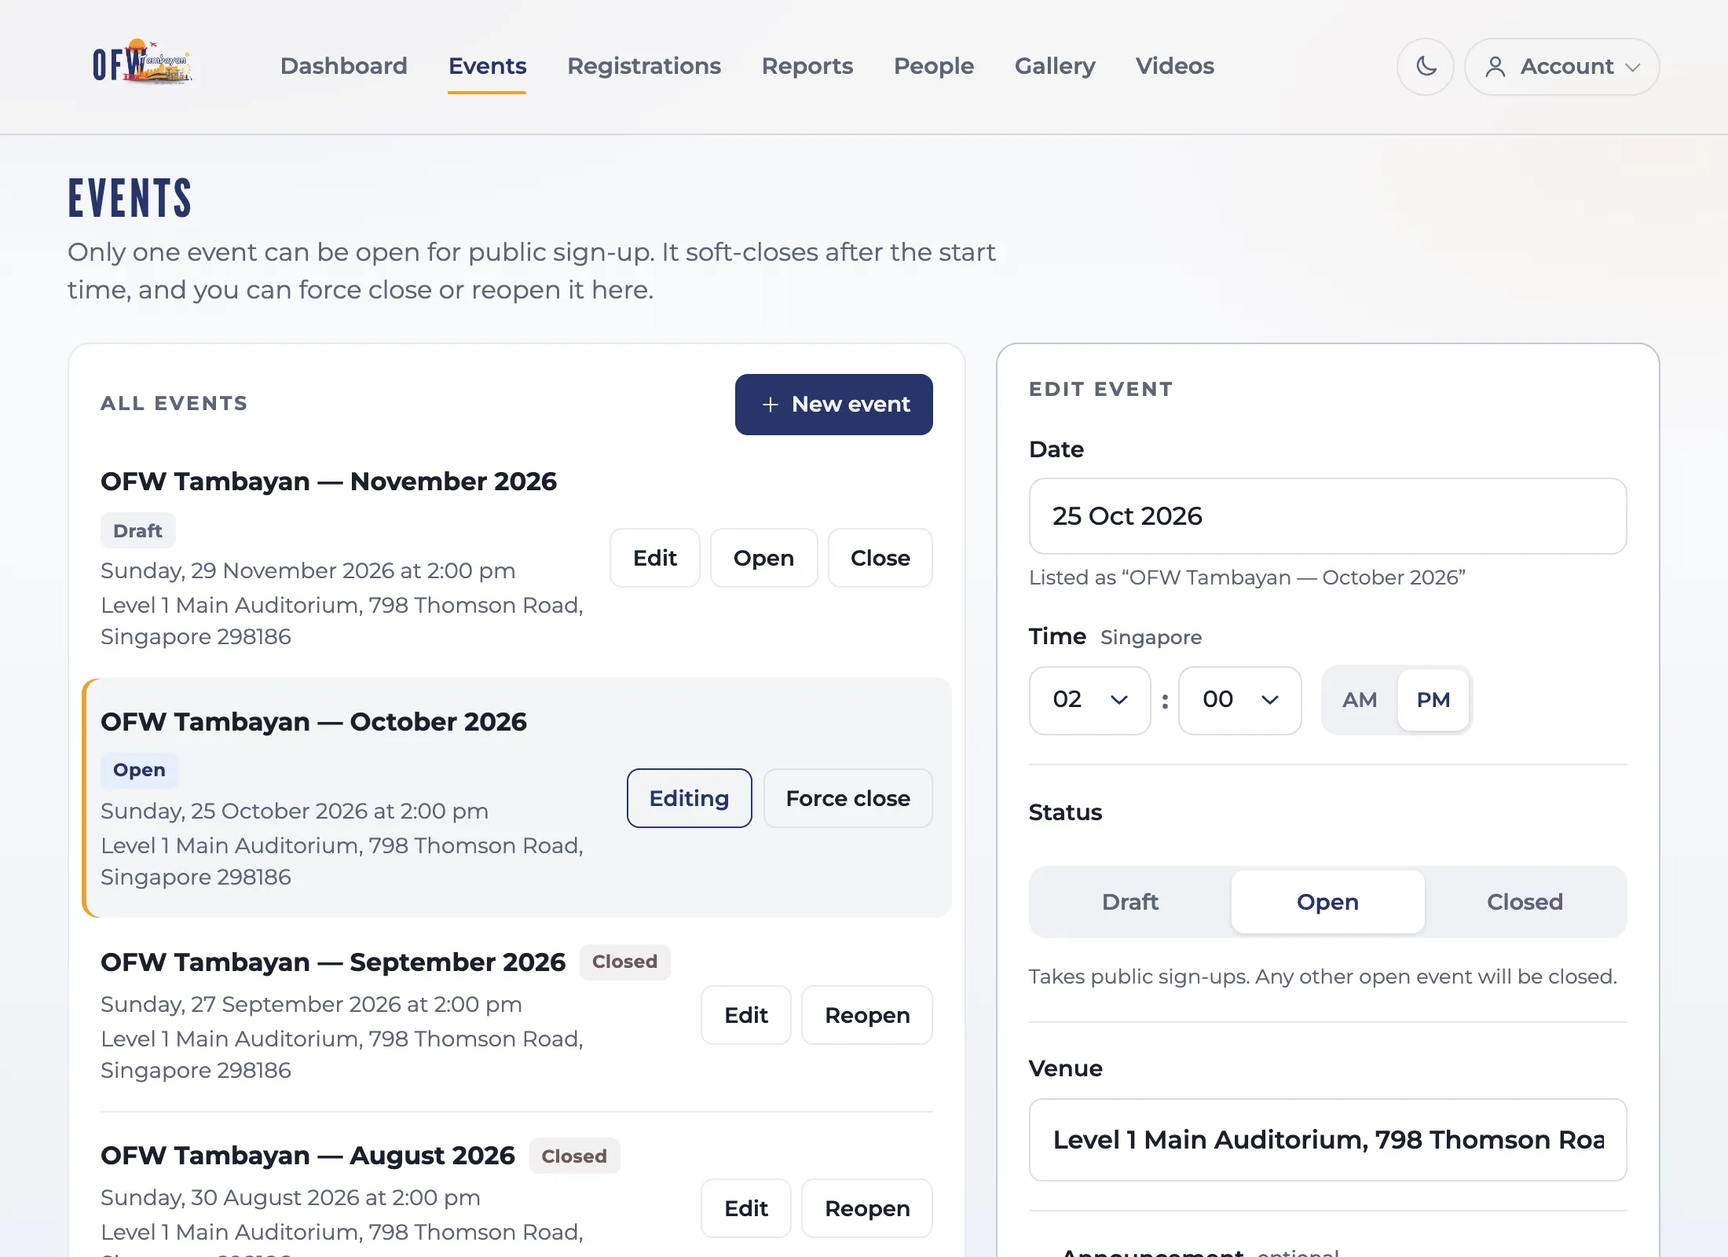
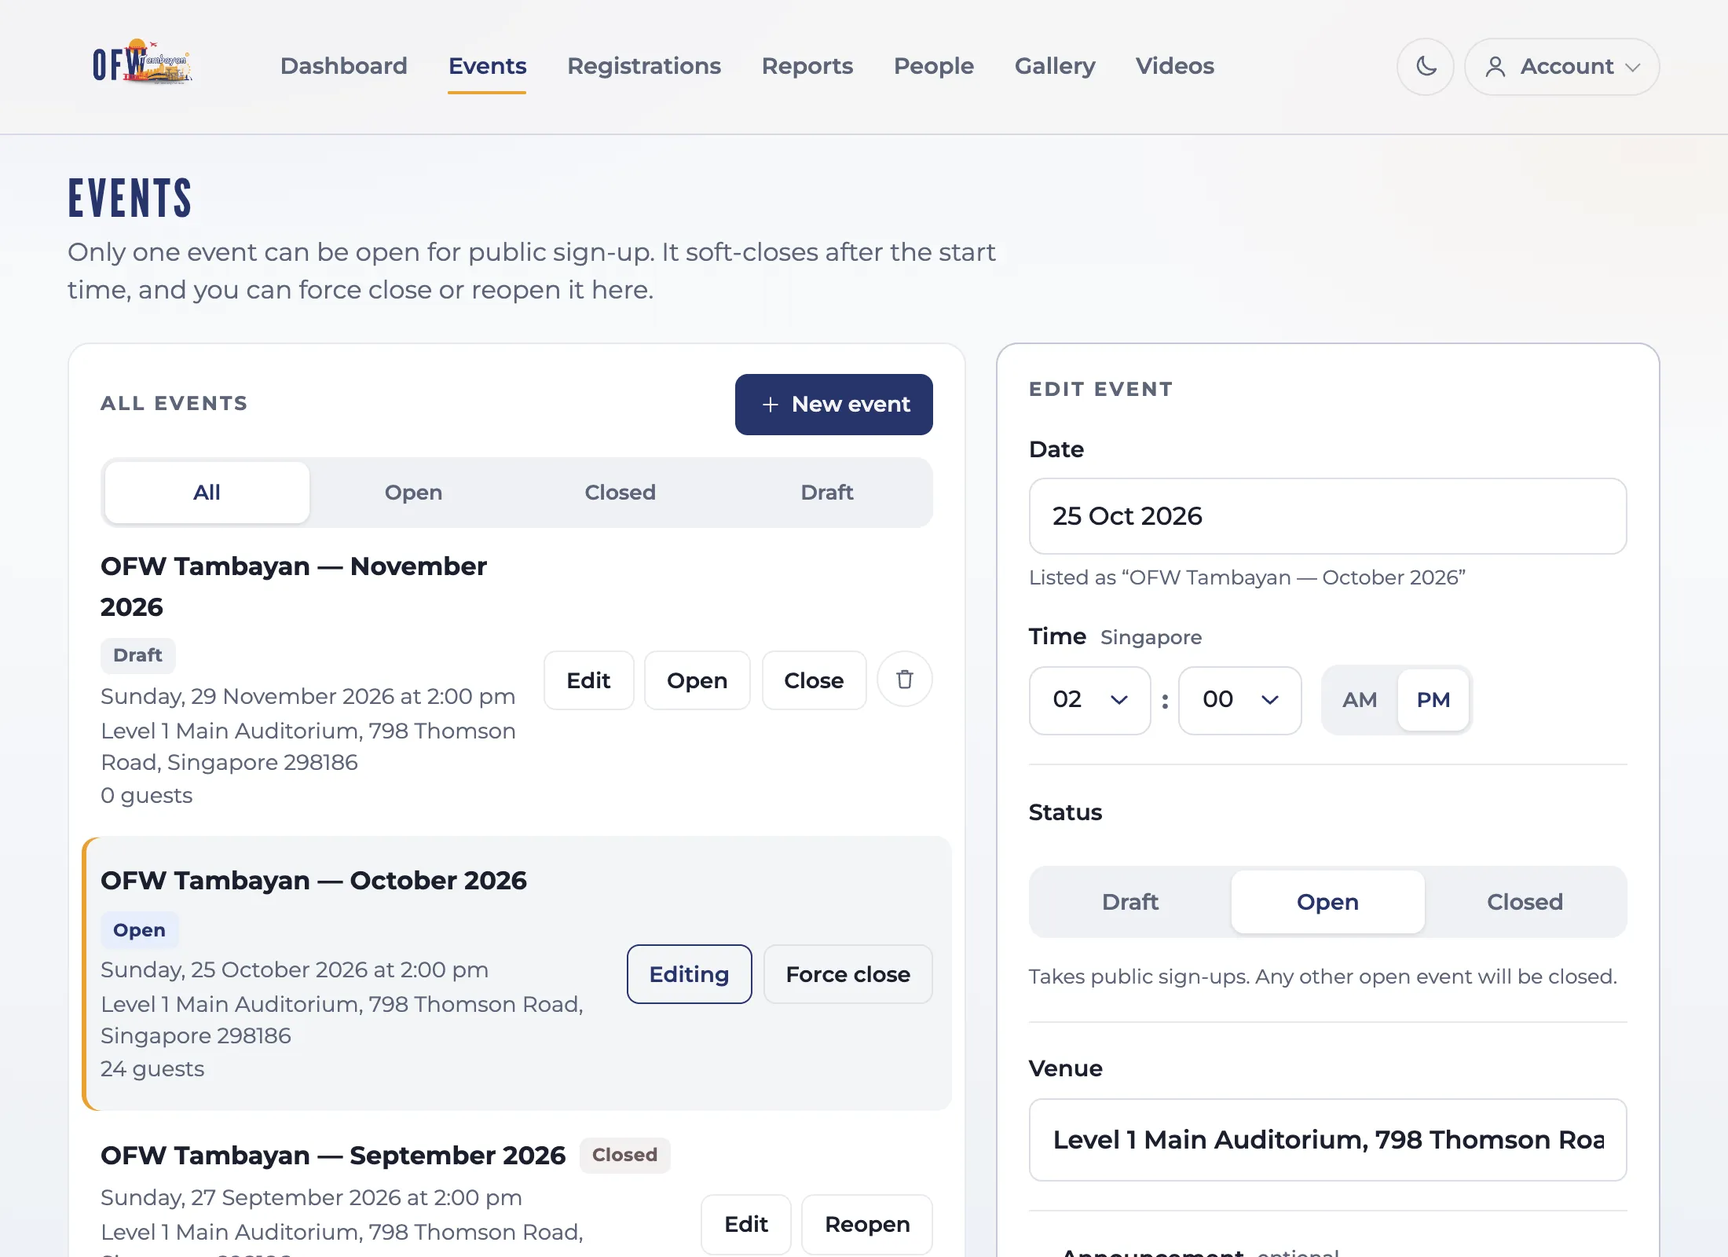
Events page: status filter, pages of five, tap to open guest list, delete empty drafts
- A quiet All / Open / Closed / Draft switch above the list; the panel title
  follows it. Five events per page with Previous and Next, and the choice is
  kept in the address so Edit and back returns to the same place.
- Tapping an event opens its guest list, and each row shows its guest count.
  The Dashboard's Open for public card now opens the guest list too.
- An empty Draft (no guests, no photos) can be deleted. The server checks the
  same rules, clears any reference to it, and records it in Activity.
- Help answers and screenshots updated, and a demo-data ordering bug fixed so
  the screenshot setup can be re-run once photos exist.

diff --git a/src/admin.ts b/src/admin.ts
@@ -385,6 +385,9 @@ export async function handleAdmin(request: Request, env: Env, path: string): Pro
   if (path === "/api/admin/events" && request.method === "POST") {
     return apiUpsertEvent(request, env, auth.email);
   }
+  if (path === "/api/admin/events/delete" && request.method === "POST") {
+    return apiDeleteEvent(request, env, auth.email);
+  }
   if (path === "/api/admin/events/status" && request.method === "POST") {
     return apiSetEventStatus(request, env, auth.email);
   }
@@ -961,7 +964,7 @@ async function renderDashboard(request: Request, env: Env): Promise<Response> {
     <div class="admin-stats">
       ${
         open
-          ? `<a class="admin-stat admin-stat-lead" href="/admin/events?id=${escapeHtml(open.id)}">
+          ? `<a class="admin-stat admin-stat-lead" href="${escapeHtml(regHref)}">
         <span>Open for public ${statusBadge(open)}</span>
         <strong>${escapeHtml(open.title)}</strong>
         <em>${escapeHtml(formatEventWhen(open.held_at))}</em>
@@ -1001,7 +1004,12 @@ async function renderDashboard(request: Request, env: Env): Promise<Response> {
 async function handleAdminEvents(request: Request, env: Env): Promise<Response> {
   const url = new URL(request.url);
   const editId = url.searchParams.get("id") || "";
-  const events = await env.DB.prepare("SELECT * FROM events ORDER BY held_at DESC").all<EventRow>();
+  const events = await env.DB.prepare(
+    `SELECT e.*,
+            (SELECT COUNT(*) FROM registrations r WHERE r.event_id = e.id) AS guests,
+            (SELECT COUNT(*) FROM gallery_images g WHERE g.event_id = e.id) AS photos
+     FROM events e ORDER BY e.held_at DESC`,
+  ).all<EventRow & { guests: number; photos: number }>();
   const editing = editId
     ? events.results.find((e) => e.id === editId) || null
     : null;
@@ -1009,19 +1017,21 @@ async function handleAdminEvents(request: Request, env: Env): Promise<Response> 
   const list =
     events.results.length === 0
       ? `<p class="notice">No events yet. Create the next OFW Tambayan below.</p>`
-      : `<ul class="admin-event-list">
+      : `<ul class="admin-event-list" id="event-list">
         ${events.results
           .map((e) => {
-            return `<li${e.id === editing?.id ? ` class="is-editing" aria-current="true"` : ""}>
+            const guestsHref = `/admin/registrations?event_id=${encodeURIComponent(e.id)}`;
+            const canDelete = e.status === "draft" && e.guests === 0 && e.photos === 0;
+            return `<li data-event data-id="${escapeHtml(e.id)}" data-status="${escapeHtml(e.status)}"${e.id === editing?.id ? ` class="is-editing" aria-current="true"` : ""}>
             <div class="admin-event-main">
               <div class="admin-event-title">
-                <strong>${escapeHtml(e.title)}</strong>
+                <a class="admin-event-link" href="${guestsHref}" title="See the guest list"><strong>${escapeHtml(e.title)}</strong></a>
                 ${statusBadge(e)}
               </div>
-              <p class="admin-event-meta"><span>${escapeHtml(formatEventWhen(e.held_at))}</span><span>${escapeHtml(e.address)}</span></p>
+              <p class="admin-event-meta"><span>${escapeHtml(formatEventWhen(e.held_at))}</span><span>${escapeHtml(e.address)}</span><span>${e.guests} ${e.guests === 1 ? "guest" : "guests"}</span></p>
             </div>
             <div class="admin-row-actions">
-              <a class="btn btn-ghost btn-sm" href="/admin/events?id=${escapeHtml(e.id)}#event-form">${e.id === editing?.id ? "Editing" : "Edit"}</a>
+              <a class="btn btn-ghost btn-sm" data-edit="${escapeHtml(e.id)}" href="/admin/events?id=${escapeHtml(e.id)}#event-form">${e.id === editing?.id ? "Editing" : "Edit"}</a>
               ${
                 e.status === "open"
                   ? `<button type="button" class="btn btn-ghost btn-sm" data-status="${escapeHtml(e.id)}" data-to="closed">Force close</button>`
@@ -1029,6 +1039,11 @@ async function handleAdminEvents(request: Request, env: Env): Promise<Response> 
                     ? `<button type="button" class="btn btn-ghost btn-sm" data-status="${escapeHtml(e.id)}" data-to="open">Reopen</button>`
                     : `<button type="button" class="btn btn-ghost btn-sm" data-status="${escapeHtml(e.id)}" data-to="open">Open</button>
                        <button type="button" class="btn btn-ghost btn-sm" data-status="${escapeHtml(e.id)}" data-to="closed">Close</button>`
+              }
+              ${
+                canDelete
+                  ? `<button type="button" class="admin-icon-btn is-danger" data-delete="${escapeHtml(e.id)}" data-title="${escapeHtml(e.title)}" aria-label="Delete the empty draft ${escapeHtml(e.title)}" title="Delete this empty draft">${menuIcon("trash")}</button>`
+                  : ""
               }
             </div>
           </li>`;
@@ -1053,10 +1068,26 @@ async function handleAdminEvents(request: Request, env: Env): Promise<Response> 
     <div class="admin-split">
       <section class="admin-panel">
         <div class="admin-panel-head">
-          <h2>All events</h2>
+          <h2 id="events-heading">All events</h2>
           <a class="btn btn-primary btn-sm" href="/admin/events#event-form">${menuIcon("add")}New event</a>
         </div>
+        <div class="ev-filter" id="event-filter" hidden>
+          <div class="segmented segmented--sm" role="radiogroup" aria-label="Show events">
+            <label><input type="radio" name="ev-status" value="all" checked /><span>All</span></label>
+            <label><input type="radio" name="ev-status" value="open" /><span>Open</span></label>
+            <label><input type="radio" name="ev-status" value="closed" /><span>Closed</span></label>
+            <label><input type="radio" name="ev-status" value="draft" /><span>Draft</span></label>
+          </div>
+        </div>
         ${list}
+        <p class="notice" id="event-empty" hidden></p>
+        <div class="reg-pager" id="event-pager" hidden>
+          <p class="reg-pager-size" id="event-range" aria-live="polite"></p>
+          <div class="reg-pager-nav">
+            <button type="button" class="btn btn-ghost" id="event-prev">Previous</button>
+            <button type="button" class="btn btn-ghost" id="event-next">Next</button>
+          </div>
+        </div>
       </section>
       <section class="admin-panel${editing ? " is-editing" : ""}" id="event-form-panel">
         <h2>${formTitle}</h2>
@@ -1212,6 +1243,40 @@ async function apiUpsertEvent(request: Request, env: Env, actor: string): Promis
   });
 
   return json({ ok: true, id, slug, status });
+}
+
+/** Only an empty Draft can go: no guests and no photos, so nothing the public or the reports rely on is lost. */
+async function apiDeleteEvent(request: Request, env: Env, actor: string): Promise<Response> {
+  const body = (await request.json()) as { id?: string };
+  const id = String(body.id || "").trim();
+  if (!id) return json({ error: "id required" }, 400);
+  const event = await env.DB.prepare(`SELECT id, title, status FROM events WHERE id = ?`)
+    .bind(id)
+    .first<{ id: string; title: string; status: string }>();
+  if (!event) return json({ error: "That event no longer exists." }, 404);
+  if (event.status !== "draft") return json({ error: "Only a Draft event can be deleted." }, 409);
+  const guests =
+    (await env.DB.prepare(`SELECT COUNT(*) AS c FROM registrations WHERE event_id = ?`).bind(id).first<{ c: number }>())?.c || 0;
+  if (guests > 0) {
+    return json({ error: `This event has ${guests} ${guests === 1 ? "guest" : "guests"}, so it cannot be deleted. Remove them first.` }, 409);
+  }
+  const photos =
+    (await env.DB.prepare(`SELECT COUNT(*) AS c FROM gallery_images WHERE event_id = ?`).bind(id).first<{ c: number }>())?.c || 0;
+  if (photos > 0) {
+    return json({ error: `This event has ${photos} ${photos === 1 ? "photo" : "photos"}, so it cannot be deleted. Delete the photos first.` }, 409);
+  }
+  await env.DB.prepare(`UPDATE site_settings SET next_event_id = NULL WHERE next_event_id = ?`).bind(id).run();
+  const result = await env.DB.prepare(
+    `DELETE FROM events
+     WHERE id = ? AND status = 'draft'
+       AND NOT EXISTS (SELECT 1 FROM registrations WHERE event_id = ?)
+       AND NOT EXISTS (SELECT 1 FROM gallery_images WHERE event_id = ?)`,
+  )
+    .bind(id, id, id)
+    .run();
+  if (!result.meta.changes) return json({ error: "That event changed while you were deleting it. Reload and try again." }, 409);
+  await recordAudit(env, { actor, action: "event.delete", targetId: id, summary: `Deleted the empty draft ${event.title}` });
+  return json({ ok: true });
 }
 
 async function apiSetEventStatus(request: Request, env: Env, actor: string): Promise<Response> {

diff --git a/public/admin/events.js b/public/admin/events.js
@@ -180,4 +180,120 @@
       }
     });
   });
+  // Delete an empty draft.
+  document.querySelectorAll("[data-delete]").forEach((btn) => {
+    btn.addEventListener("click", async (event) => {
+      event.stopPropagation();
+      const id = btn.getAttribute("data-delete");
+      const title = btn.getAttribute("data-title") || "this event";
+      if (!id) return;
+      if (!confirm(`Delete the empty draft "${title}"? This cannot be undone.`)) return;
+      try {
+        const res = await fetch("/api/admin/events/delete", {
+          method: "POST",
+          headers: { "content-type": "application/json" },
+          body: JSON.stringify({ id }),
+        });
+        const json = await res.json();
+        if (!res.ok) throw new Error(json.error || "Could not delete the event");
+        const editing = new URLSearchParams(location.search).get("id") === id;
+        if (editing) location.href = "/admin/events";
+        else location.reload();
+      } catch (err) {
+        alert(err instanceof Error ? err.message : "Error");
+      }
+    });
+  });
+
+  // The events list: filter by status, a few per page, and tap an event to see its guests.
+  const list = document.getElementById("event-list");
+  const filterBox = document.getElementById("event-filter");
+  if (list && filterBox) {
+    const PAGE_SIZE = 5;
+    const rows = [...list.querySelectorAll("li[data-event]")];
+    const heading = document.getElementById("events-heading");
+    const empty = document.getElementById("event-empty");
+    const pager = document.getElementById("event-pager");
+    const range = document.getElementById("event-range");
+    const prev = document.getElementById("event-prev");
+    const next = document.getElementById("event-next");
+    const radios = [...filterBox.querySelectorAll('input[name="ev-status"]')];
+    const titles = { all: "All events", open: "Open events", closed: "Closed events", draft: "Draft events" };
+    const nothing = { open: "No open events.", closed: "No closed events.", draft: "No draft events." };
+    const valid = (value) => (value === "open" || value === "closed" || value === "draft" ? value : "all");
+
+    const params = new URLSearchParams(location.search);
+    let filter = valid(params.get("status"));
+    let page = Math.max(1, Number(params.get("page")) || 1);
+    const editingId = params.get("id");
+    const matching = () => rows.filter((row) => filter === "all" || row.dataset.status === filter);
+
+    // Land on the page that holds the event being edited.
+    const editingRow = editingId ? rows.find((row) => row.dataset.id === editingId) : null;
+    if (editingRow) {
+      if (filter !== "all" && editingRow.dataset.status !== filter) filter = "all";
+      if (!params.get("page")) page = Math.floor(matching().indexOf(editingRow) / PAGE_SIZE) + 1;
+    }
+
+    function paint() {
+      const shown = matching();
+      const pages = Math.max(1, Math.ceil(shown.length / PAGE_SIZE));
+      page = Math.min(Math.max(1, page), pages);
+      const from = (page - 1) * PAGE_SIZE;
+      const onPage = new Set(shown.slice(from, from + PAGE_SIZE));
+      rows.forEach((row) => { row.hidden = !onPage.has(row); });
+      if (heading) heading.textContent = titles[filter];
+      radios.forEach((radio) => { radio.checked = radio.value === filter; });
+      if (empty) {
+        empty.hidden = shown.length > 0;
+        empty.textContent = nothing[filter] || "";
+      }
+      const paged = shown.length > PAGE_SIZE;
+      if (pager) pager.hidden = !paged;
+      if (paged && range) range.textContent = `${from + 1}–${Math.min(shown.length, from + PAGE_SIZE)} of ${shown.length}`;
+      if (prev) prev.disabled = page <= 1;
+      if (next) next.disabled = page >= pages;
+
+      // Keep the place in the address, so Edit and back returns to the same list.
+      const query = new URLSearchParams(location.search);
+      filter === "all" ? query.delete("status") : query.set("status", filter);
+      page === 1 ? query.delete("page") : query.set("page", String(page));
+      const qs = query.toString();
+      history.replaceState(null, "", `${location.pathname}${qs ? `?${qs}` : ""}${location.hash}`);
+      const keep = new URLSearchParams();
+      if (filter !== "all") keep.set("status", filter);
+      if (page > 1) keep.set("page", String(page));
+      list.querySelectorAll("a[data-edit]").forEach((link) => {
+        const q = new URLSearchParams(keep);
+        q.set("id", link.getAttribute("data-edit"));
+        link.setAttribute("href", `/admin/events?${q.toString()}#event-form`);
+      });
+      document.querySelectorAll(".admin-form-actions a.btn-ghost[href='/admin/events']").forEach((link) => {
+        const qs2 = keep.toString();
+        link.setAttribute("href", `/admin/events${qs2 ? `?${qs2}` : ""}`);
+      });
+    }
+
+    filterBox.hidden = false;
+    radios.forEach((radio) =>
+      radio.addEventListener("change", () => {
+        if (!radio.checked) return;
+        filter = valid(radio.value);
+        page = 1;
+        paint();
+      }),
+    );
+    prev?.addEventListener("click", () => { page -= 1; paint(); });
+    next?.addEventListener("click", () => { page += 1; paint(); });
+
+    // Tapping anywhere on a row (except its buttons) opens that event's guest list.
+    list.addEventListener("click", (event) => {
+      const target = event.target instanceof Element ? event.target : null;
+      const row = target?.closest("li[data-event]");
+      if (!target || !row || target.closest("a, button")) return;
+      const link = row.querySelector(".admin-event-link");
+      if (link) location.href = link.getAttribute("href");
+    });
+    paint();
+  }
 })();

diff --git a/src/help.ts b/src/help.ts
@@ -68,7 +68,7 @@ const sections: Section[] = [
         id: "dashboard",
         q: "What is on the Dashboard?",
         a: `<ul>
-          <li><strong>Open for public</strong> is the event taking sign-ups right now, or <em>None</em>.</li>
+          <li><strong>Open for public</strong> is the event taking sign-ups right now, or <em>None</em>. Tap it to see that event's guest list.</li>
           <li><strong>Registrations</strong> is how many people are on that event's list.</li>
           <li><strong>Events</strong> is how many events exist in total.</li>
           <li><strong>Quick actions</strong> are shortcuts: add a walk-in, upload photos, add a short video, or preview the public Register page.</li>
@@ -114,10 +114,18 @@ const sections: Section[] = [
         shots: [{ name: "event-date", alt: "Choosing a date on the new event form", path: "/admin/events" }],
       },
       {
+        id: "event-find",
+        q: "How do I find an event in a long list?",
+        a: `<p>Above the list is a row of choices: <strong>All, Open, Closed, Draft</strong>. Tap one to show only those events. The title above the list follows your choice, for example <em>Closed events</em>.</p>
+        <p>The list shows five events at a time, newest first. Use <strong>Previous</strong> and <strong>Next</strong> at the bottom to see older ones. Each event also shows how many guests it has.</p>
+        <p>Tap an event to see its guest list. <strong>Edit</strong>, <strong>Open</strong>, <strong>Force close</strong> and the other buttons work as before.</p>`,
+        shots: [{ name: "events-filter", alt: "The Events list filtered to Closed events, with the choices and page buttons circled", path: "/admin/events" }],
+      },
+      {
         id: "event-open",
         q: "How do I open sign-ups for an event?",
         a: `<ol>
-          <li>Go to <strong>Events</strong> and find the event in the list.</li>
+          <li>Go to <strong>Events</strong> and find the event in the list. Use the <a href="#q-event-find">filter</a> if the list is long.</li>
           <li>Tap <strong>Open</strong> (for a Draft) or <strong>Reopen</strong> (for a Closed one).</li>
           <li>Tap OK when asked to confirm.</li>
         </ol>
@@ -171,7 +179,14 @@ const sections: Section[] = [
       {
         id: "event-delete",
         q: "Can I delete an event?",
-        a: `<p>There is no delete button, so guest lists and reports always stay complete. If you added an event by mistake, edit it into your next real gathering instead.</p>`,
+        a: `<p>Only an <strong>empty Draft</strong>: one that has no guests and no photos. That keeps guest lists and reports complete.</p>
+        <ol>
+          <li>Go to <strong>Events</strong> and tap <strong>Draft</strong> above the list.</li>
+          <li>Tap the small bin beside the event, then confirm. The bin only appears when the event can be deleted.</li>
+        </ol>
+        <p>Deleting cannot be undone. It also changes what guests see. If that draft was showing as <em>Coming soon</em>, the home page moves on to the next upcoming event, or to your most recent one if there is none. The Register page changes from <em>Coming soon</em> to a closed message when nothing else is upcoming.</p>
+        <p>An event with guests or photos cannot be deleted. Remove them first, or edit the event into your next real gathering instead.</p>`,
+        shots: [{ name: "events-delete", alt: "The Draft events list with the delete bin circled", path: "/admin/events" }],
       },
       {
         id: "guest-view",
@@ -197,6 +212,7 @@ const sections: Section[] = [
           <li>Go to <strong>Registrations</strong>.</li>
           <li>Pick an event at the top. The open event is chosen for you. Choose <strong>All events</strong> to see everyone.</li>
         </ol>
+        <p>You can also tap an event on the <strong>Events</strong> page to jump straight to its guest list.</p>
         <p>The newest sign-ups come first, 20 to a page. Use <strong>Show</strong> at the bottom to see more per page. On a computer, tap a column heading such as <strong>Name</strong> to sort.</p>`,
         shots: [{ name: "registrations", alt: "The guest list", path: "/admin/registrations" }],
       },

diff --git a/public/styles.css b/public/styles.css
@@ -4590,6 +4590,22 @@ html[data-admin-theme="dark"] body.page-admin .site-footer a { color: inherit; }
   body.admin-menu-open .admin-scrim { animation: none; }
 }
 
+/* Events list: a quiet status filter, tappable rows, and pages of five. */
+.ev-filter { margin: 0 0 0.6rem; }
+.ev-filter[hidden] { display: none; }
+.ev-filter .segmented label { position: relative; display: block; margin: 0; cursor: pointer; }
+.ev-filter .segmented input { position: absolute; inset: 0; width: 100%; height: 100%; margin: 0; padding: 0; opacity: 0; cursor: pointer; }
+.admin-event-list li[hidden] { display: none; }
+.admin-event-list li[data-event] { cursor: pointer; }
+.admin-event-link { color: inherit; text-decoration: none; }
+.admin-event-link:hover strong,
+.admin-event-list li[data-event]:hover .admin-event-link strong { text-decoration: underline; text-decoration-color: rgba(39, 52, 107, 0.35); text-underline-offset: 3px; }
+.admin-event-link:focus-visible { outline: 2px solid var(--accent); outline-offset: 3px; border-radius: 4px; }
+.admin-event-list li[data-event] .admin-row-actions { cursor: default; }
+#event-empty { margin: 0.4rem 0 0; color: var(--muted); }
+#event-pager { margin-top: 0.7rem; }
+#event-pager[hidden] { display: none; }
+
 /* Help page: questions that open, and screenshots framed as a phone or a computer window. */
 .hp { max-width: 62rem; }
 .hp-tools { display: flex; flex-wrap: wrap; align-items: center; gap: 0.7rem 1.1rem; margin: 0 0 0.9rem; }
